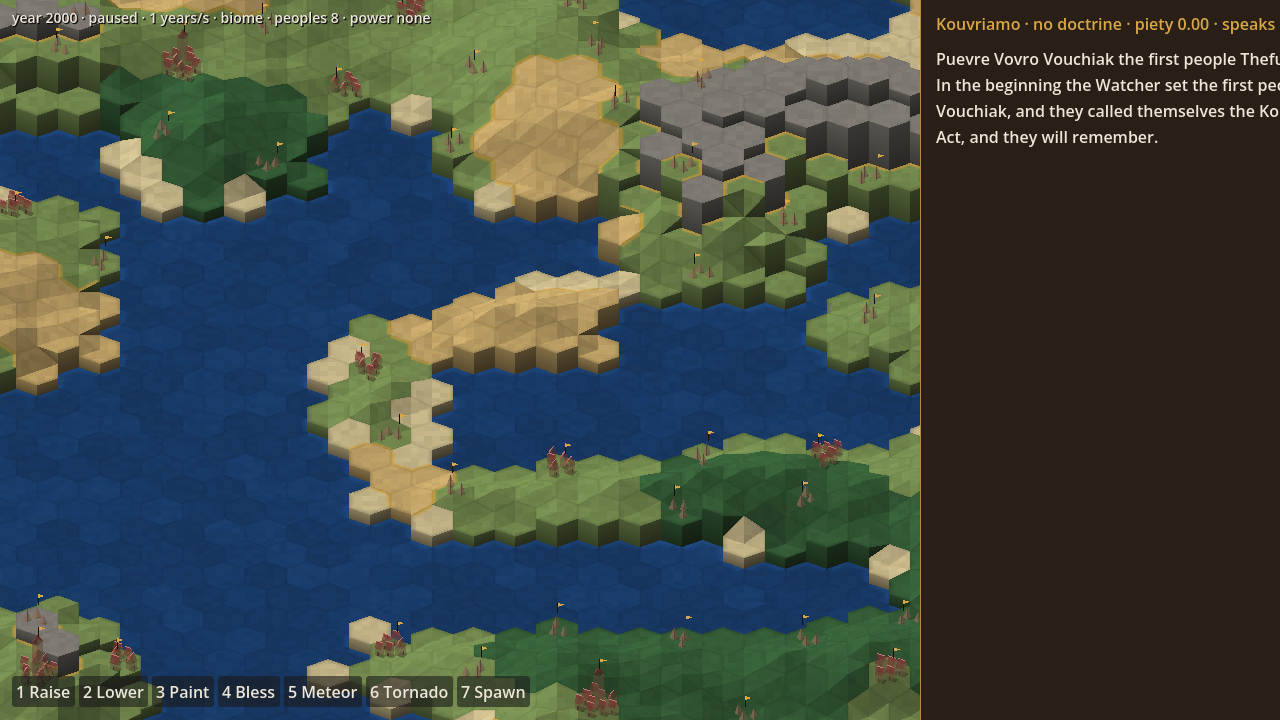
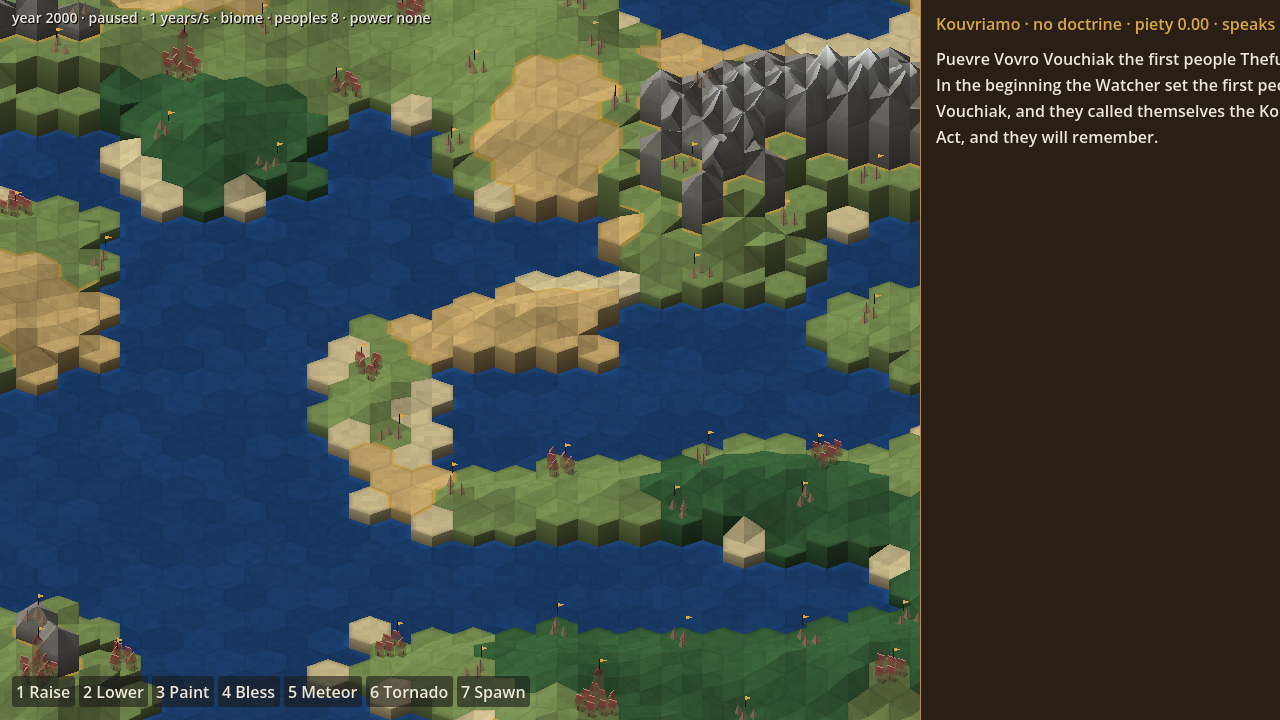
M6a: mountain peaks, ridges and snow from angled hex tops
Each hex top is now twelve facets (center, corner, side midpoint), so a
mountain's center can rise into a summit and the midpoint of an edge shared
with another mountain into a ridge at a share of the lower summit. Mountains
slope only into other mountains, keeping cliffs at the lowland, and faces
above the snow line turn white. Walls run through the side midpoint so they
still close against ridges. --shots adds a close-up of the highest summit.

Changed region(s): [[0.5, 0.0611, 0.7188, 0.275], [0.0, 0.825, 0.0625, 0.9167], [0.0, 0.0, 0.0938, 0.0306]]

diff --git a/GAME_DESIGN.md b/GAME_DESIGN.md
@@ -90,6 +90,7 @@ The player's core role, chosen in this session: **guide a favorite people.** You
   - The map is one hex-column mesh, not an `Image`. Rust keeps returning one RGBA pixel per tile from `Sim.paint_overlay()`; Godot lays those colors onto a single `ArrayMesh` in which every tile is a pointy-top hexagon raised as a solid column. *(Revised 2026-10-27, second pass: the first renderer drew square diamonds on the hex grid, with no sides and per-tile height jitter; the user directed hex tiles with thickness and smoothed heights.)*
     - **Heights:** a land column's top is its elevation above sea level, softened toward the mean of its six neighbors and rounded to `HEIGHT_STEPS` terraces, so neighbors rise in readable ledges instead of jitter. Water tiles sit flat at sea level.
     - **Slopes:** each top corner is shared by three tiles. Where all three are non-mountain land within `SLOPE_STEPS` terraces of one another, the corner sits at their mean height, so tops tilt into each other and the land rolls with no wall. Mountains, the sea and steeper drops keep their ledges. *(User direction 2026-10-27: "smooth toward the other land except for cliffs and mountains".)*
+    - **Peaks and ridges:** a mountain's center rises into a summit (`PEAK_PX`, varied per tile and taller with altitude), and the midpoint of every edge it shares with another mountain rises by a share of the lower summit, so neighboring peaks join in ridge lines and a lone mountain stands pointed. Mountains slope only into other mountains (within `MOUNTAIN_SLOPE_STEPS`), so a range reads as one massif with cliffs where it meets the lowland. Faces above `SNOW_PX` take snow. *(User direction 2026-10-27: "design mountain peaks and ridges from angling the hex tiles".)*
     - **Thickness:** wherever a ledge remains, each column shows its two camera-facing sides (south-west and south-east) down to the top of the lower neighbor on that side, or to the floor along the map's south edge. Rows are emitted back to front, so nearer columns cover farther ones.
     - **Light** is baked per vertex on the CPU from the terraced height field: tops shade by slope toward the art bible's upper-left light, south-west sides are lit and south-east sides fall in shadow. One `ShaderMaterial` adds only the time-based and overlay terms: a slow ripple on water, a wet rim at coastlines, an antique-gold edge on the Chosen's tiles, and the night pass with the beacon. No TileMapLayer.
   - Repaint is gated on `Sim.revision()` (R6): the color texture updates only when a tick ran or an action applied; geometry rebuilds when a Raise or Lower changed heights, which is valid because powers apply only at tick boundaries (D9).
